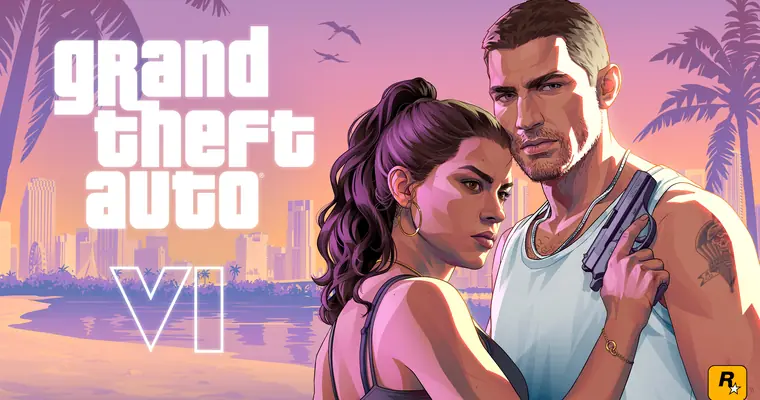
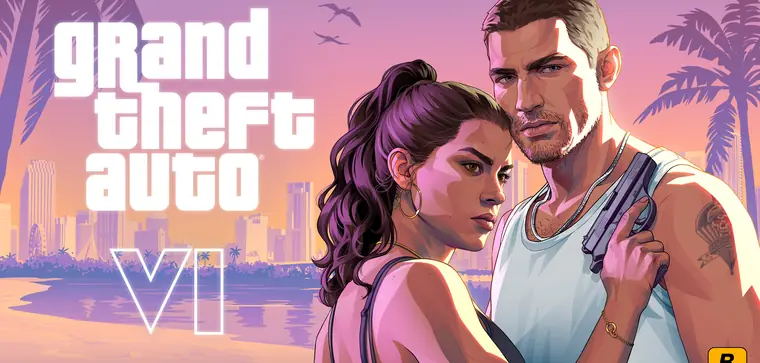
Site v6 : plus de zoom dans les losanges du titre
Sofiene : « le problème c'est que tout est coupé parce que tu zoom sur les
photos, pourquoi ne fais aucun zoom ». Le scale(1.25) dans .x-slot img a été
retiré : les images remplissent exactement la forme, sans zoom. Les covers
sont redécoupées au format du losange (760 × 363) pour un ajustement parfait,
plus de rognage. On lit maintenant VALORANT, COUNTER STRIKE 2, FORTNITE et
GRAND THEFT AUTO VI en entier dans la forme.

Claude-Session: https://claude.ai/code/session_015UUBtZGaur1mkbThXQxEN4

diff --git a/site/index.html b/site/index.html
@@ -53,7 +53,7 @@ main.x{position:relative;overflow-x:clip}
 .x-hero-h .x-brush .x-ch{color:var(--ink)}
 .x-slot{position:relative;display:inline-block;width:0;height:.74em;margin:0 .05em;vertical-align:-.02em;border-radius:.1em;overflow:hidden;background:var(--card);transform:skewX(var(--skew));transition:width 1s var(--x-expo),margin .8s var(--x-expo)}
 .x-slot.x-open{width:1.55em;margin:0 .14em 0 .08em}
-.x-slot img{position:absolute;inset:0;width:100%;height:100%;object-fit:cover;transform:skewX(12deg) scale(1.25);clip-path:inset(100% 0 0 0);transition:clip-path .7s var(--x-circ)}
+.x-slot img{position:absolute;inset:0;width:100%;height:100%;object-fit:cover;transform:skewX(12deg);clip-path:inset(100% 0 0 0);transition:clip-path .7s var(--x-circ)}
 .x-slot img.x-on{clip-path:inset(0)}
 .x-slot img.x-off{clip-path:inset(0 0 100% 0)}
 .x-pool{display:none}
@@ -702,7 +702,7 @@ if (!matchMedia("(prefers-reduced-motion: reduce)").matches) { document.document
   <div class="x-wrap x-hero-in">
     <p class="x-hero-k x-intro"><span class="x-tape">Minecraft PvP optimizer <b>//</b> for Windows</span></p>
     <h1 class="x-h x-hero-h x-intro" id="hero-h">Every <span class="x-slot x-keep" aria-hidden="true"></span>millisecond <span class="x-brush">counts.</span></h1>
-    <div class="x-pool" aria-hidden="true"><img src="img/wide/valorant.webp" alt="" width="760" height="400"><img src="img/wide/cs2.webp" alt="" width="760" height="400"><img src="img/wide/fortnite.webp" alt="" width="760" height="400"><img src="img/wide/gta.webp" alt="" width="760" height="400"></div>
+    <div class="x-pool" aria-hidden="true"><img src="img/wide/valorant.webp" alt="" width="760" height="363"><img src="img/wide/cs2.webp" alt="" width="760" height="363"><img src="img/wide/fortnite.webp" alt="" width="760" height="363"><img src="img/wide/gta.webp" alt="" width="760" height="363"></div>
     <p class="x-hero-p x-intro">Steadier ping, smoother frames, less input lag. Rago tunes Windows, your network and Minecraft, and puts your settings back when you turn a tweak off.</p>
     <div class="x-hero-b">
       <a class="x-btn red x-intro" href="#pricing"><span class="x-fl"></span><svg class="i" aria-hidden="true"><use href="#i-zap"/></svg><span class="x-bl">Try Premium free</span></a>

diff --git a/site/src/page.html b/site/src/page.html
@@ -24,7 +24,7 @@ main.x{position:relative;overflow-x:clip}
 .x-hero-h .x-brush .x-ch{color:var(--ink)}
 .x-slot{position:relative;display:inline-block;width:0;height:.74em;margin:0 .05em;vertical-align:-.02em;border-radius:.1em;overflow:hidden;background:var(--card);transform:skewX(var(--skew));transition:width 1s var(--x-expo),margin .8s var(--x-expo)}
 .x-slot.x-open{width:1.55em;margin:0 .14em 0 .08em}
-.x-slot img{position:absolute;inset:0;width:100%;height:100%;object-fit:cover;transform:skewX(12deg) scale(1.25);clip-path:inset(100% 0 0 0);transition:clip-path .7s var(--x-circ)}
+.x-slot img{position:absolute;inset:0;width:100%;height:100%;object-fit:cover;transform:skewX(12deg);clip-path:inset(100% 0 0 0);transition:clip-path .7s var(--x-circ)}
 .x-slot img.x-on{clip-path:inset(0)}
 .x-slot img.x-off{clip-path:inset(0 0 100% 0)}
 .x-pool{display:none}
@@ -671,7 +671,7 @@ if (!matchMedia("(prefers-reduced-motion: reduce)").matches) { document.document
   <div class="x-wrap x-hero-in">
     <p class="x-hero-k x-intro"><span class="x-tape">Minecraft PvP optimizer <b>//</b> for Windows</span></p>
     <h1 class="x-h x-hero-h x-intro" id="hero-h">Every <span class="x-slot x-keep" aria-hidden="true"></span>millisecond <span class="x-brush">counts.</span></h1>
-    <div class="x-pool" aria-hidden="true"><img src="img/wide/valorant.webp" alt="" width="760" height="400"><img src="img/wide/cs2.webp" alt="" width="760" height="400"><img src="img/wide/fortnite.webp" alt="" width="760" height="400"><img src="img/wide/gta.webp" alt="" width="760" height="400"></div>
+    <div class="x-pool" aria-hidden="true"><img src="img/wide/valorant.webp" alt="" width="760" height="363"><img src="img/wide/cs2.webp" alt="" width="760" height="363"><img src="img/wide/fortnite.webp" alt="" width="760" height="363"><img src="img/wide/gta.webp" alt="" width="760" height="363"></div>
     <p class="x-hero-p x-intro">Steadier ping, smoother frames, less input lag. Rago tunes Windows, your network and Minecraft, and puts your settings back when you turn a tweak off.</p>
     <div class="x-hero-b">
       <a class="x-btn red x-intro" href="#pricing"><span class="x-fl"></span><svg class="i" aria-hidden="true"><use href="#i-zap"/></svg><span class="x-bl">Try Premium free</span></a>
